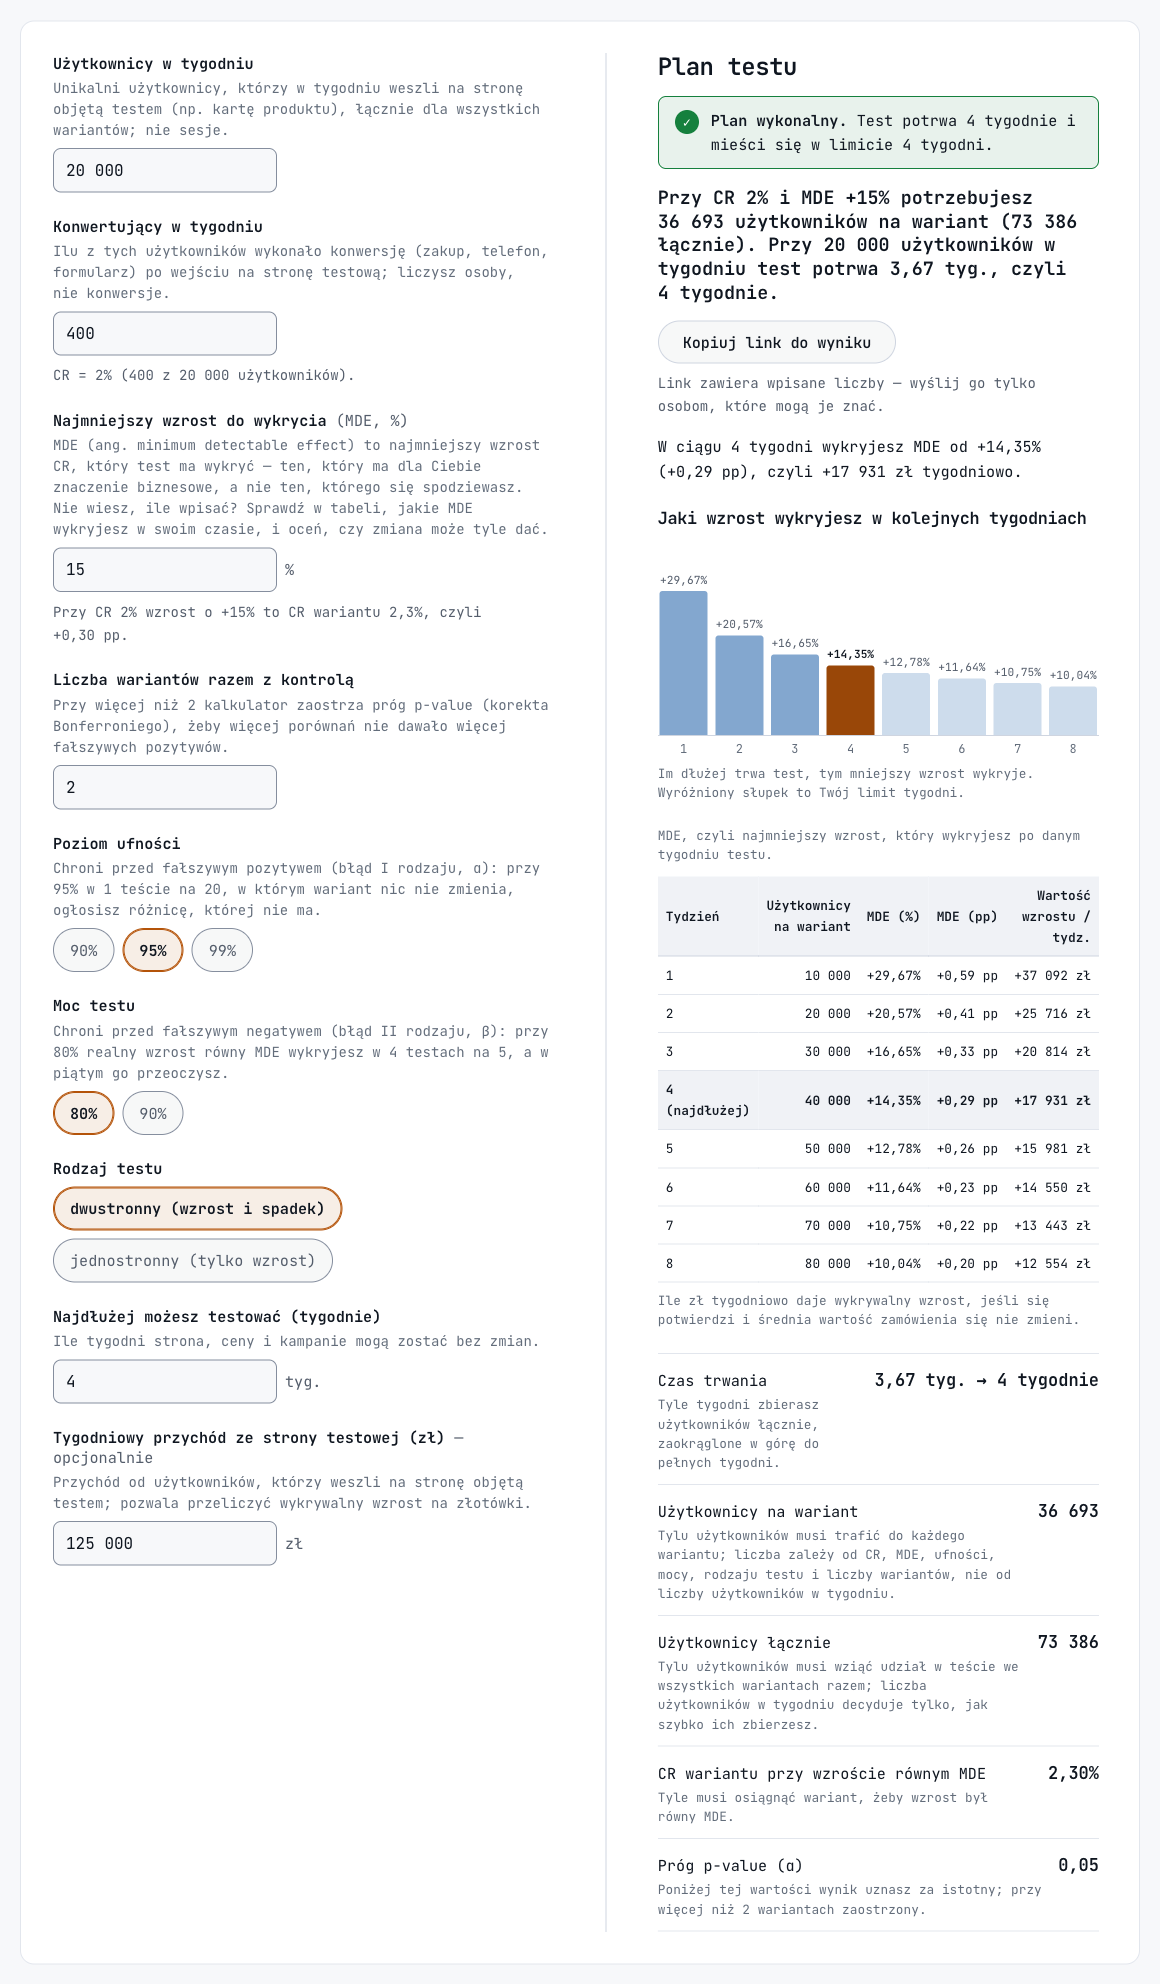
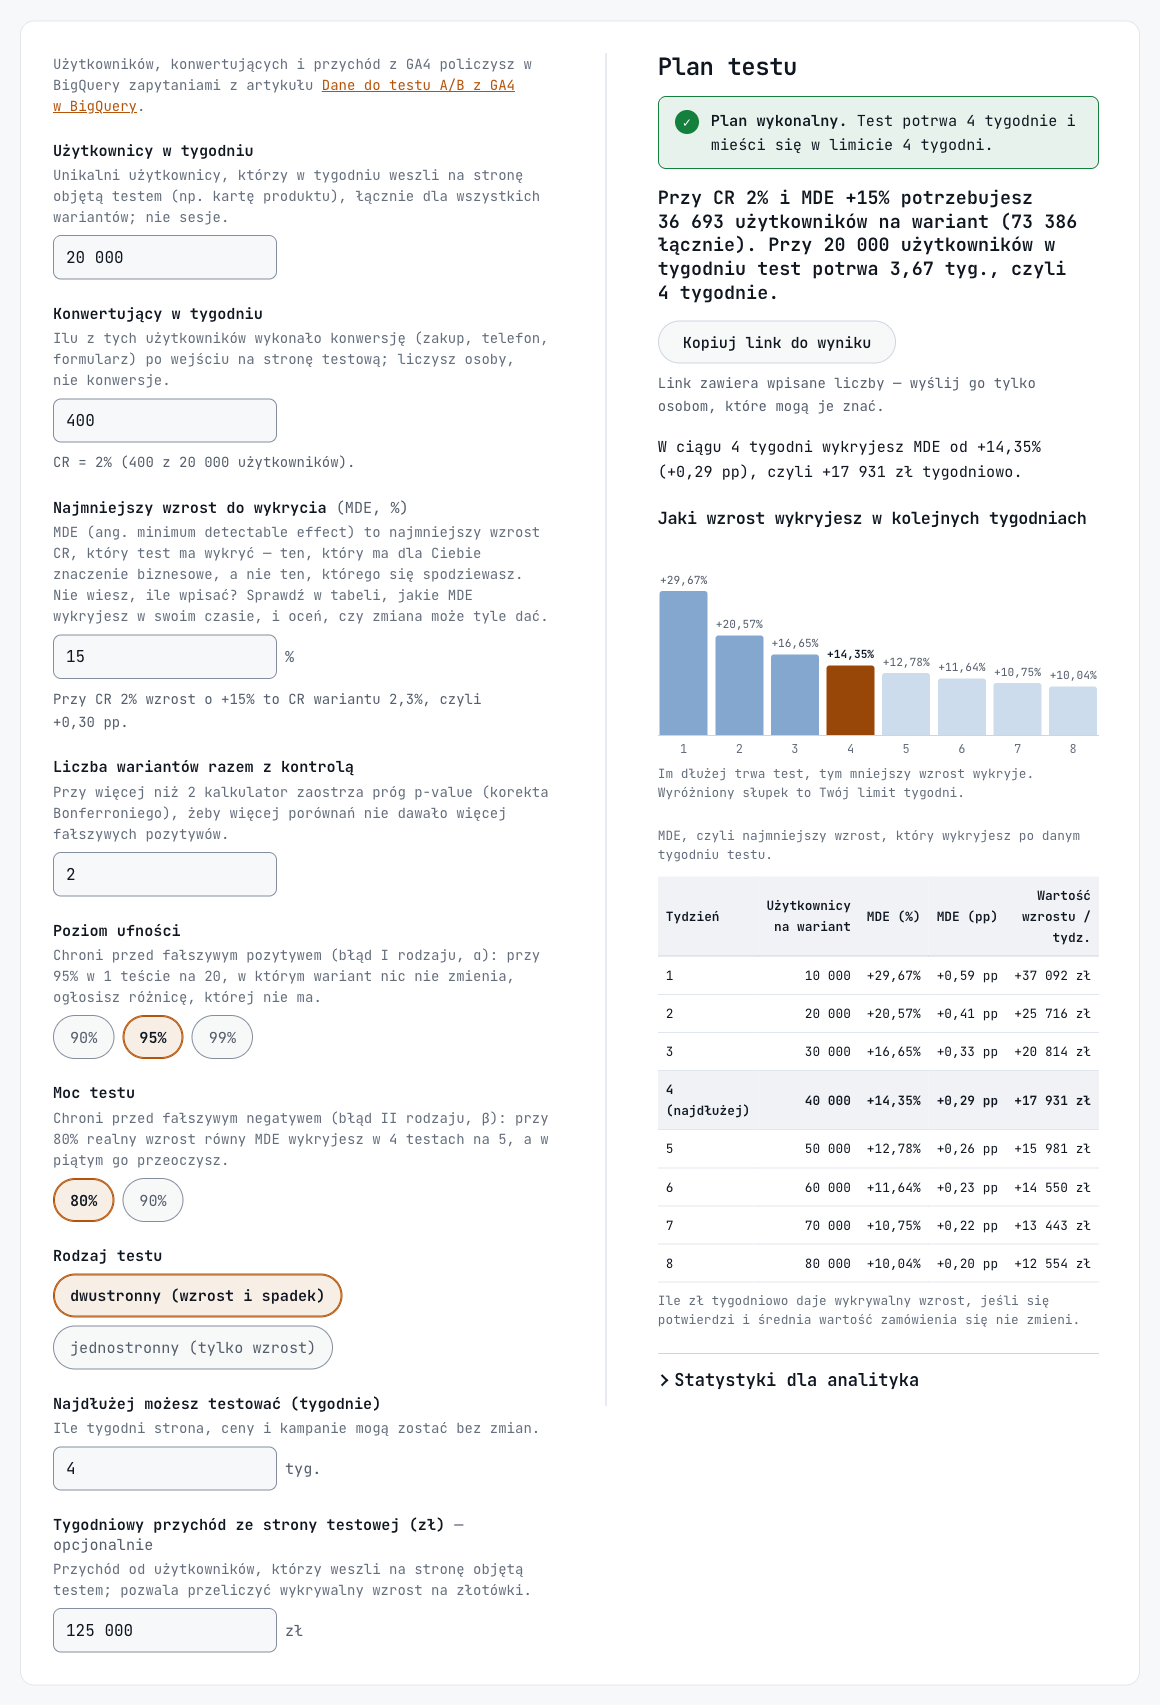
docs: oś zakresu z etykietami i zwinięte statystyki dla analityka
- Po teście: oś zakresu z etykietami (zmierzony wzrost, 0, granice) i kolorem
  odcinka zależnym od kierunku wyniku
- oba kalkulatory: statystyki dla analityka zwinięte pod „Statystyki dla analityka”;
  README oznacza te punkty, nowe zrzuty pokazują domyślny widok

diff --git a/README.md b/README.md
@@ -92,7 +92,7 @@ MDE to skrót od *minimum detectable effect*, po polsku najmniejszy wykrywalny e
 
 ### Wynik: Plan testu
 
-Kolejność jak na stronie.
+Kolejność jak na stronie. Biznes czyta do tabeli MDE; punkty 7–11 są zwinięte pod „Statystyki dla analityka” — klik rozwija.
 
 1. **Stan planu** (ramka z ikoną)<br>Na stronie: ✓ **Plan wykonalny** · ! **Plan ryzykowny** · ✕ **Plan niewykonalny**
 
@@ -118,23 +118,23 @@ Kolejność jak na stronie.
 
    Wiersz = „gdybyś zakończył test po tym tygodniu”. Użytkownicy na wariant = ruch × tygodnie / liczba wariantów. MDE (%) i MDE (pp) = najmniejszy wzrost wykrywalny przy tej liczbie użytkowników, względnie i w punktach procentowych. Wartość wzrostu / tydz. = przychód tygodniowy × MDE (%): ile zł tygodniowo daje wykrywalny wzrost, jeśli się potwierdzi i średnia wartość zamówienia się nie zmieni. Wiersz „(najdłużej)” to Twój limit. „poza zasięgiem” = przy tej liczbie użytkowników nie wykryjesz realistycznego wzrostu. Tabela ma zawsze co najmniej 8 tygodni, żeby było widać, co da dłuższy test. Ruch na tydzień jest stały, więc przy dłuższych oknach tabela trochę przeszacowuje użytkowników — dla dokładnego wiersza weź liczby z `01` dla tej długości.
 
-7. **Czas trwania**<br>Na stronie: „3,67 tyg. → 4 tygodnie”
+7. **Statystyki dla analityka**: **Czas trwania**<br>Na stronie: „3,67 tyg. → 4 tygodnie”
 
    Tyle tygodni zbierasz użytkowników łącznie, zaokrąglone w górę do pełnych tygodni.
 
-8. **Użytkownicy na wariant**<br>Na stronie: 36 693
+8. **Statystyki dla analityka**: **Użytkownicy na wariant**<br>Na stronie: 36 693
 
    Tylu użytkowników musi trafić do każdego wariantu. Tę liczbę wpisujesz potem w „Po teście” jako dane z planu.
 
-9. **Użytkownicy łącznie**<br>Na stronie: 73 386
+9. **Statystyki dla analityka**: **Użytkownicy łącznie**<br>Na stronie: 73 386
 
    Użytkownicy na wariant × liczba wariantów. Ruch w tygodniu decyduje tylko, jak szybko ich zbierzesz.
 
-10. **CR wariantu przy wzroście równym MDE**<br>Na stronie: 2,30%
+10. **Statystyki dla analityka**: **CR wariantu przy wzroście równym MDE**<br>Na stronie: 2,30%
 
    Tyle musi osiągnąć wariant, żeby wzrost był równy MDE.
 
-11. **Próg p-value (α)**<br>Na stronie: 0,05
+11. **Statystyki dla analityka**: **Próg p-value (α)**<br>Na stronie: 0,05
 
    Poniżej tej wartości wynik w „Po teście” uznasz za istotny. Przy 3+ wariantach zaostrzony, np. „0,05 / 2 = 0,025”.
 
@@ -197,7 +197,7 @@ Progi: mniej niż 95% planu = za mało (każdy brakujący użytkownik to mniejsz
 
 ### Wynik testu
 
-Kolejność jak na stronie: najpierw to, co czyta biznes, statystyka na dole.
+Kolejność jak na stronie: najpierw to, co czyta biznes, statystyka na dole. Punkty 8–14 są zwinięte pod „Statystyki dla analityka” — klik rozwija.
 
 1. **Stan wyniku** (ramka z ikoną)<br>Na stronie: decyzja o wariancie B, jeden z sześciu stanów
 
@@ -211,7 +211,7 @@ Kolejność jak na stronie: najpierw to, co czyta biznes, statystyka na dole.
 
    Jak w „Przed testem”.
 
-4. **Zakres możliwego wzrostu (95% przedział ufności)**<br>Na stronie: **w punktach procentowych**: od +0,0922 pp do +0,5119 pp · **w procentach**: od +4,61% do +25,59% · pasek z zerem, zakresem i punktem
+4. **Zakres możliwego wzrostu (95% przedział ufności)**<br>Na stronie: **w punktach procentowych**: od +0,0922 pp do +0,5119 pp · **w procentach**: od +4,61% do +25,59% · oś: nad nią zmierzony wzrost (+15,10%), pod nią „0” i granice zakresu; odcinek zielony, gdy cały zakres jest powyżej zera, szary — gdy obejmuje zero, czerwony — gdy jest poniżej zera
 
    Realny wzrost leży najpewniej w tym zakresie. Zakres obejmuje zero = realnie może być wzrost, brak zmiany albo spadek. Dolna granica poniżej 1% = wzrost jest, ale może być bliski zera. Przy teście jednostronnym zakres to przedział na poziomie 1 − 2α (przy 95% ufności: 90%), zgodny z progiem testu.
 
@@ -227,31 +227,31 @@ Kolejność jak na stronie: najpierw to, co czyta biznes, statystyka na dole.
 
    Analizuj raz, po zebraniu zaplanowanej liczby użytkowników. Każde wcześniejsze „zerknięcie” z możliwością zatrzymania testu podnosi ryzyko fałszywego pozytywu ponad wybrany próg α.
 
-8. **CR A / CR B**<br>Na stronie: 2,0000% / 2,3020%
+8. **Statystyki dla analityka**: **CR A / CR B**<br>Na stronie: 2,0000% / 2,3020%
 
    Konwertujący podzieleni przez użytkowników w wariancie.
 
-9. **Wzrost (pp)**<br>Na stronie: +0,3020 pp
+9. **Statystyki dla analityka**: **Wzrost (pp)**<br>Na stronie: +0,3020 pp
 
    CR B − CR A w punktach procentowych.
 
-10. **Wzrost (%)**<br>Na stronie: +15,10%
+10. **Statystyki dla analityka**: **Wzrost (%)**<br>Na stronie: +15,10%
 
    Wzrost w pp podzielony przez CR A. To pojedyncza, zmierzona wartość — realny wzrost leży w zakresie z punktu 4.
 
-11. **p-value dwustronne / jednostronne**<br>Na stronie: 0,0048 / 0,0024
+11. **Statystyki dla analityka**: **p-value dwustronne / jednostronne**<br>Na stronie: 0,0048 / 0,0024
 
    Prawdopodobieństwo wyniku co najmniej tak skrajnego, gdyby wzrostu nie było. Kalkulator pokazuje oba, ale werdykt bierze rodzaj testu wybrany w polu „Rodzaj testu”.
 
-12. **Podział użytkowników A/B (SRM)**<br>Na stronie: „w normie: χ² = 0,03, p-value = 0,8536”
+12. **Statystyki dla analityka**: **Podział użytkowników A/B (SRM)**<br>Na stronie: „w normie: χ² = 0,03, p-value = 0,8536”
 
    SRM (*sample ratio mismatch*) sprawdza, czy A i B dostały po równo — zakłada podział 50/50. „alarm” przy p-value < 0,001 = błąd w losowaniu albo w danych (np. wariant B ładuje się wolniej i gubi część użytkowników). Wtedy wyniku nie interpretujesz.
 
-13. **Szczegóły statystyczne**: **Statystyka z**<br>Na stronie: 2,8214
+13. **Statystyki dla analityka** → **Szczegóły statystyczne**: **Statystyka z**<br>Na stronie: 2,8214
 
    Wzrost w pp podzielony przez swój błąd standardowy. Im dalej od zera, tym mniejsze p-value; ±1,96 to granica istotności przy 95% w teście dwustronnym.
 
-14. **Szczegóły statystyczne**: **Błąd standardowy wzrostu**<br>Na stronie: 0,1071 pp
+14. **Statystyki dla analityka** → **Szczegóły statystyczne**: **Błąd standardowy wzrostu**<br>Na stronie: 0,1071 pp
 
    Niepewność wzrostu wynikająca z liczby użytkowników w A i B, liczona bez poolowania (*unpooled SE*). Z niej powstaje zakres z punktu 4.
 
